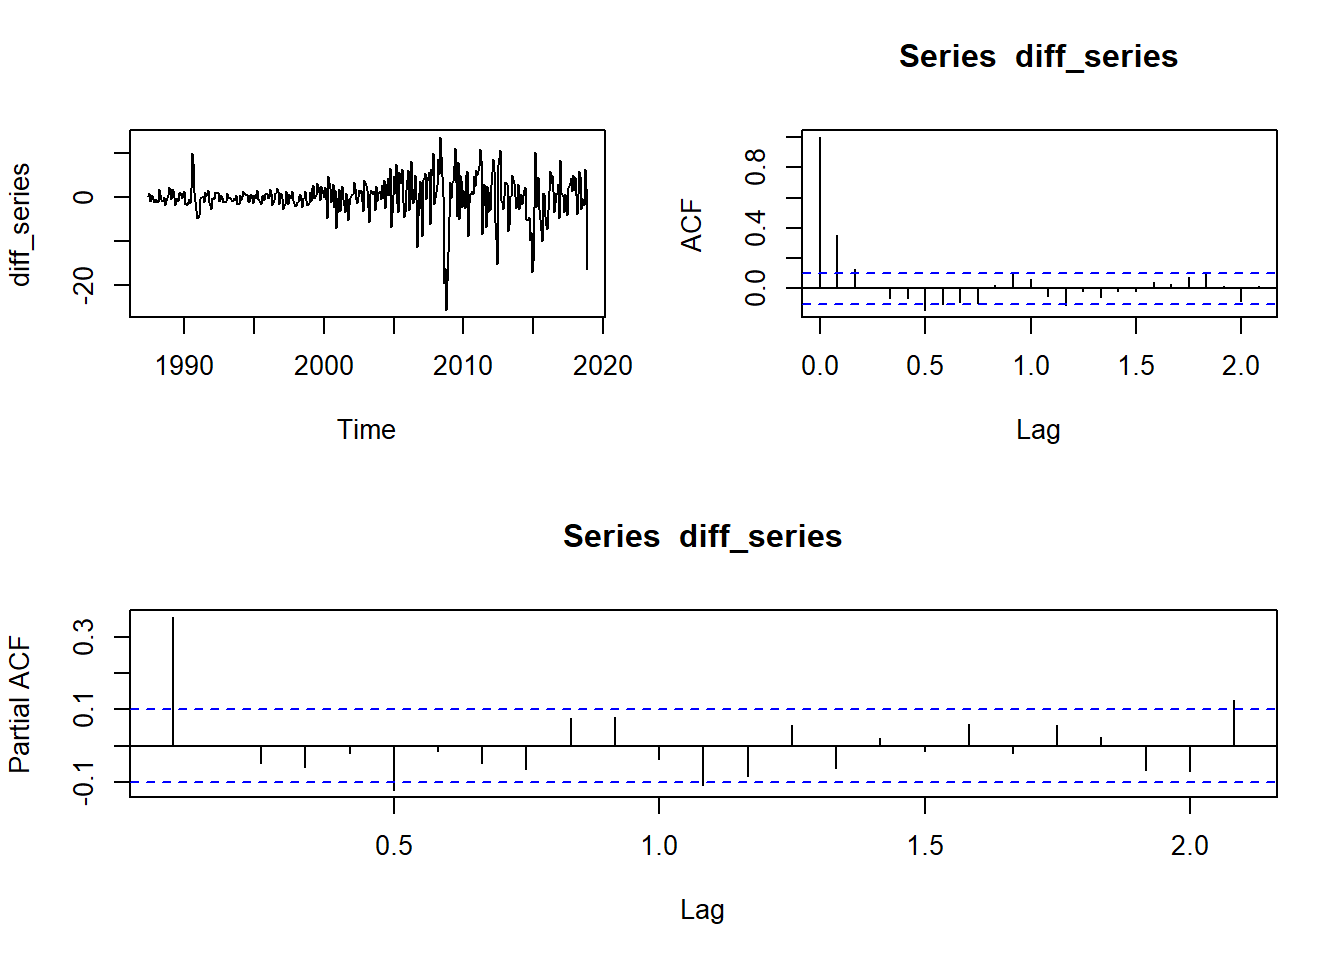
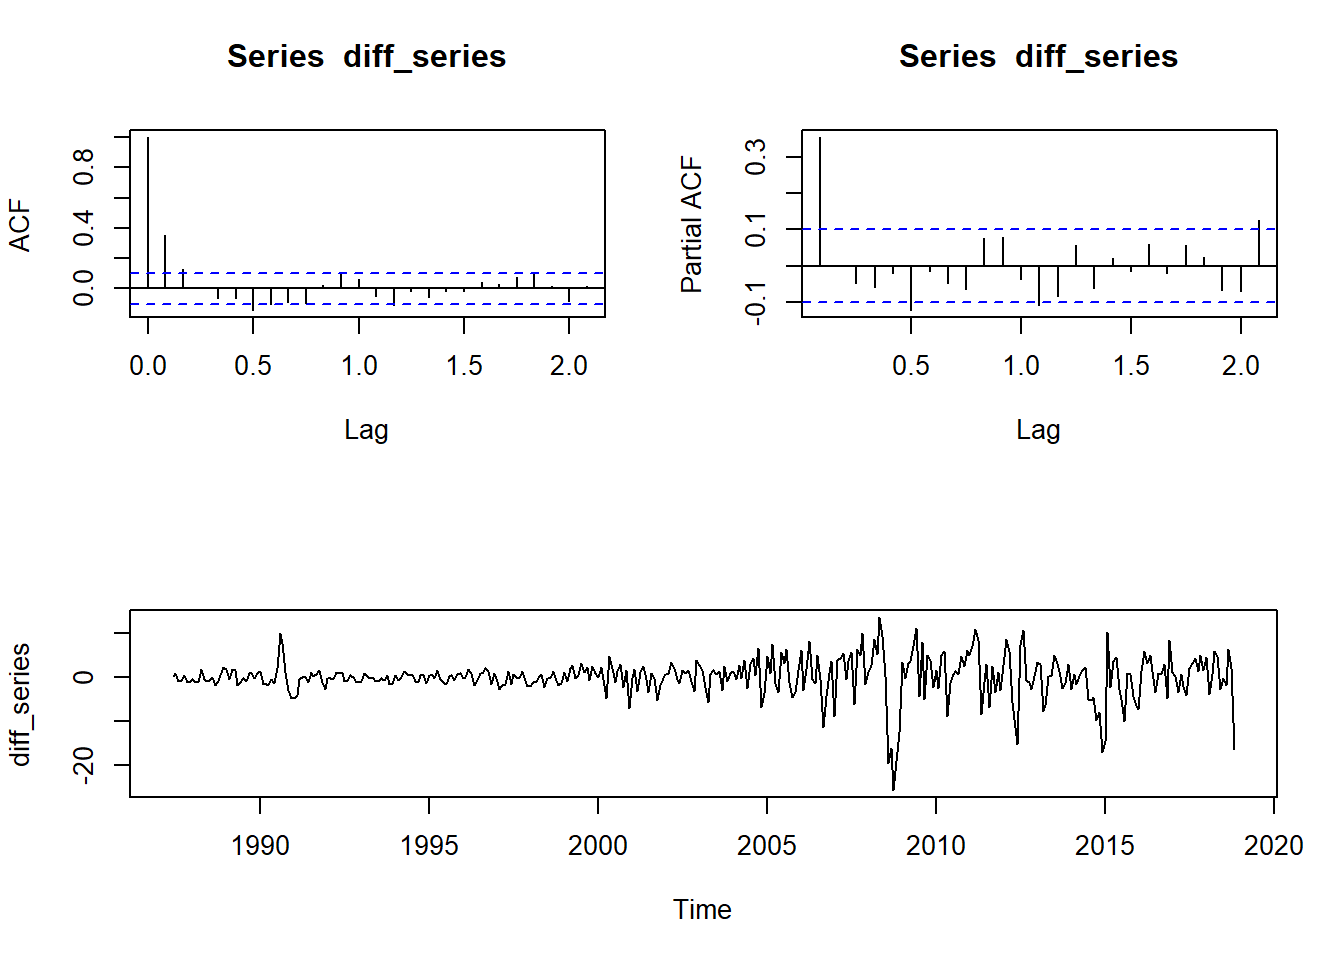
Initial Commit

diff --git a/content/post/2018-12-22-forecasting-of-brent-crude-oil-price-arima-modelling.html b/content/post/2018-12-22-forecasting-of-brent-crude-oil-price-arima-modelling.html
@@ -58,17 +58,17 @@ Let us then plot our series in order to capture its main charachteristics.
 <pre class="r"><code>ts.plot(brent_ts)</code></pre>
 <p><img src="/post/2018-12-22-forecasting-of-brent-crude-oil-price-arima-modelling_files/figure-html/unnamed-chunk-4-1.png" width="672" /></p>
 <p style="text-align: justify;">
-As we can see, our time series is far from being stationary. It has a positive trend in general, however, it includes vloatile periods as well. The price of crude oil has been relatively stable during 1980s and 1990s before increasing drastically starting from 2000 onward. The price has then experienced a remarkable slumps in 2009 as a result of the financal crisis. It then took an upward trend before sliding again in 2015 as a result of OPEC policy to restore its market share from shale oil producers.
+As we can see, our time series is far from being stationary. It has a positive trend in general, however, it includes vloatile periods as well. The price of crude oil has been relatively stable during 1980s and 1990s before increasing drastically starting from 2000 onward. The price has then experienced a remarkable slump in 2009 as a result of the financal crisis. It then took an upward trend before sliding again in 2015 as a result of OPEC policy to restore its market share from shale oil producers.
 </p>
 <p style="text-align: justify;">
-Let us check the autocorrelation plots for the series.
+Let us check the autocorrelation plot for the series.
 </p>
 <pre class="r"><code>par(mfrow = c(2,1))
 acf(brent_ts)
 pacf(brent_ts)</code></pre>
 <p><img src="/post/2018-12-22-forecasting-of-brent-crude-oil-price-arima-modelling_files/figure-html/unnamed-chunk-5-1.png" width="672" /></p>
 <p style="text-align: justify;">
-The series is apparently non-stationar and this is confirmed by the plots of ACf -as if oil price was stationary, the ACF would decay to zero much faster. The ACF plot above suggests a strong persistence across all lags, that is, a small shock at one lag period will influence the the future predictions of the time series for a long time.
+The series is apparently non-stationarY and this is confirmed by the plots of ACf -as if oil price was stationary, the ACF would decay to zero much faster. The ACF plot above suggests a strong persistence across all lags, that is, a small shock at one lag period will influence the the future predictions of the time series for a long time.
 </p>
 <p style="text-align: justify;">
 Though the series looks non-stationary, it might be a good idea to conduct Augmented Dickey-Fuller Test in order to prove our “visual” conclusion.
@@ -85,12 +85,12 @@ The p-value is larger than 0.05 and thus we fail to reject the null hypothesis w
 </p>
 <pre class="r"><code>diff_series &lt;- diff(brent_ts)</code></pre>
 <pre class="r"><code>layout(matrix(c(1,2,3,3), 2, 2, byrow = TRUE))
-a &lt;- ts.plot(diff_series)
 b &lt;- acf(diff_series)
-c &lt;- pacf(diff_series)</code></pre>
+c &lt;- pacf(diff_series)
+a &lt;- ts.plot(diff_series)</code></pre>
 <p><img src="/post/2018-12-22-forecasting-of-brent-crude-oil-price-arima-modelling_files/figure-html/unnamed-chunk-8-1.png" width="672" /></p>
 <p style="text-align: justify;">
-We can see from the graphs above that the series istelf and ACF look smilar to a plot for the white noise process. The ACF drops to zero much faster comparing to the one for non-stationary series. The plots also show that only two autocorrelations lie outside 95% confidence limits.
+We can see from the plot above that the series istelf and ACF look similar to a plot for the white noise process. The ACF drops to zero much faster comparing to the one for non-stationary series. The plot also shows that only two autocorrelations lie outside 95% confidence limits.
 </p>
 <pre class="r"><code>adf.test(diff_series)</code></pre>
 <pre><code>## 
@@ -104,10 +104,10 @@ And when we apply Augmented Dickey-Fuller Test on the differenced series, we got
 </p>
 <p><strong>2- Modelling:</strong></p>
 <p style="text-align: justify;">
-The plots for ACF and PACF suggests that the sutiable model for fitting the data could be ARIMA(1,1,0), however, for the purpose of this project, I’m going to simulate several models with different orders of p and q. I will also leave the task offitting one of the models for R by using <strong>auto.arima()</strong> function. I will then compare AICs for the models and pick up two or three of them for forecasting.
+The plots for ACF and PACF suggests that the sutiable model for fitting the data could be ARIMA(1,1,0), however, for the purpose of this project, I’m going to simulate several models with different orders of p and q. I will also leave the task of fitting one of the models for R by using <strong>auto.arima()</strong> function. I will then compare AICs for the models and pick up two or three of them for forecasting.
 </p>
 <p style="text-align: justify;">
-Before start fitting the models, I will split my data into training set and test set where the latter includes only the observations of the last 12 months. Splitting the data into training and test sest is one of the widely used practices when it comes to constructing predictive models. Using this technique will help us evaluating the accuracy of forecasting power by measuring how well the model is likely to forecast on new data that has not been part of fitting the model.
+Before start fitting the models, I will split my data into training set and test set where the latter includes only the observations for the last 12 months. Splitting the data into training and test sets is one of the widely used practices when it comes to constructing predictive models. Using this technique will help us evaluating the accuracy of forecasting power by measuring how well the model is likely to forecast on new data that has not been part of fitting the model.
 </p>
 <pre class="r"><code>training &lt;- subset(brent_ts, end = 367)
 test &lt;- subset(brent_ts, end = 368)</code></pre>
@@ -207,17 +207,9 @@ summary(Model5)</code></pre>
 ##                      ACF1
 ## Training set -0.006713012</code></pre>
 <p style="text-align: justify;">
-<strong>Note:</strong> When we apply <strong>auto.arima()</strong> function on data, we received ARIMA(1,1,0)(0,0,2)[12], which means that the function believes that the series of crude oil price includes a seasonal component.
+<strong>Note:</strong> When we apply <strong>auto.arima()</strong> function on data, it chooses the best model to be ARIMA(1,1,0)(0,0,2)[12], which means that the function believes that the series of crude oil price includes a seasonal component.
 </p>
 <table>
-<colgroup>
-<col width="8%" />
-<col width="15%" />
-<col width="15%" />
-<col width="15%" />
-<col width="15%" />
-<col width="27%" />
-</colgroup>
 <thead>
 <tr class="header">
 <th>Model</th>
@@ -225,7 +217,7 @@ summary(Model5)</code></pre>
 <th>ARIMA(1,1,0)</th>
 <th>ARIMA(2,1,2)</th>
 <th>ARIMA(2,1,0)</th>
-<th>ARIMA(1,1,0)(0,0,2)[12]</th>
+<th>ARIMA(1,1,0)(0,0,2)</th>
 </tr>
 </thead>
 <tbody>
@@ -240,11 +232,11 @@ summary(Model5)</code></pre>
 </tbody>
 </table>
 <p style="text-align: justify;">
-We can see in table above that the model which has been choosen by auto.arima() has the lowest AIC. Models ARIMA (1,1,0) and ARIMA (2,1,2) have lower AIC comparing to ARIMA (1,1,1) and ARIMA (2,1,0).
+We can see in table above that the model which has been choosen by auto.arima() has the lowest AIC. Moreover, models ARIMA (1,1,0) and ARIMA (2,1,2) have lower AIC comparing to ARIMA (1,1,1) and ARIMA (2,1,0).
 </p>
 <p><strong>3- Residual Analysis:</strong></p>
 <p style="text-align: justify;">
-In addition to the comparison of AIC for our models, we need to make sure that the residuals of each one meet the assumptions of randomness, normal distribution and uncorrelation.
+In addition to the comparison of AICs for our models, we need to make sure that the residuals of each one meet the assumptions of randomness, normal distribution and uncorrelation.
 </p>
 <pre class="r"><code>checkresiduals(Model1)</code></pre>
 <p><img src="/post/2018-12-22-forecasting-of-brent-crude-oil-price-arima-modelling_files/figure-html/unnamed-chunk-16-1.png" width="672" /></p>
